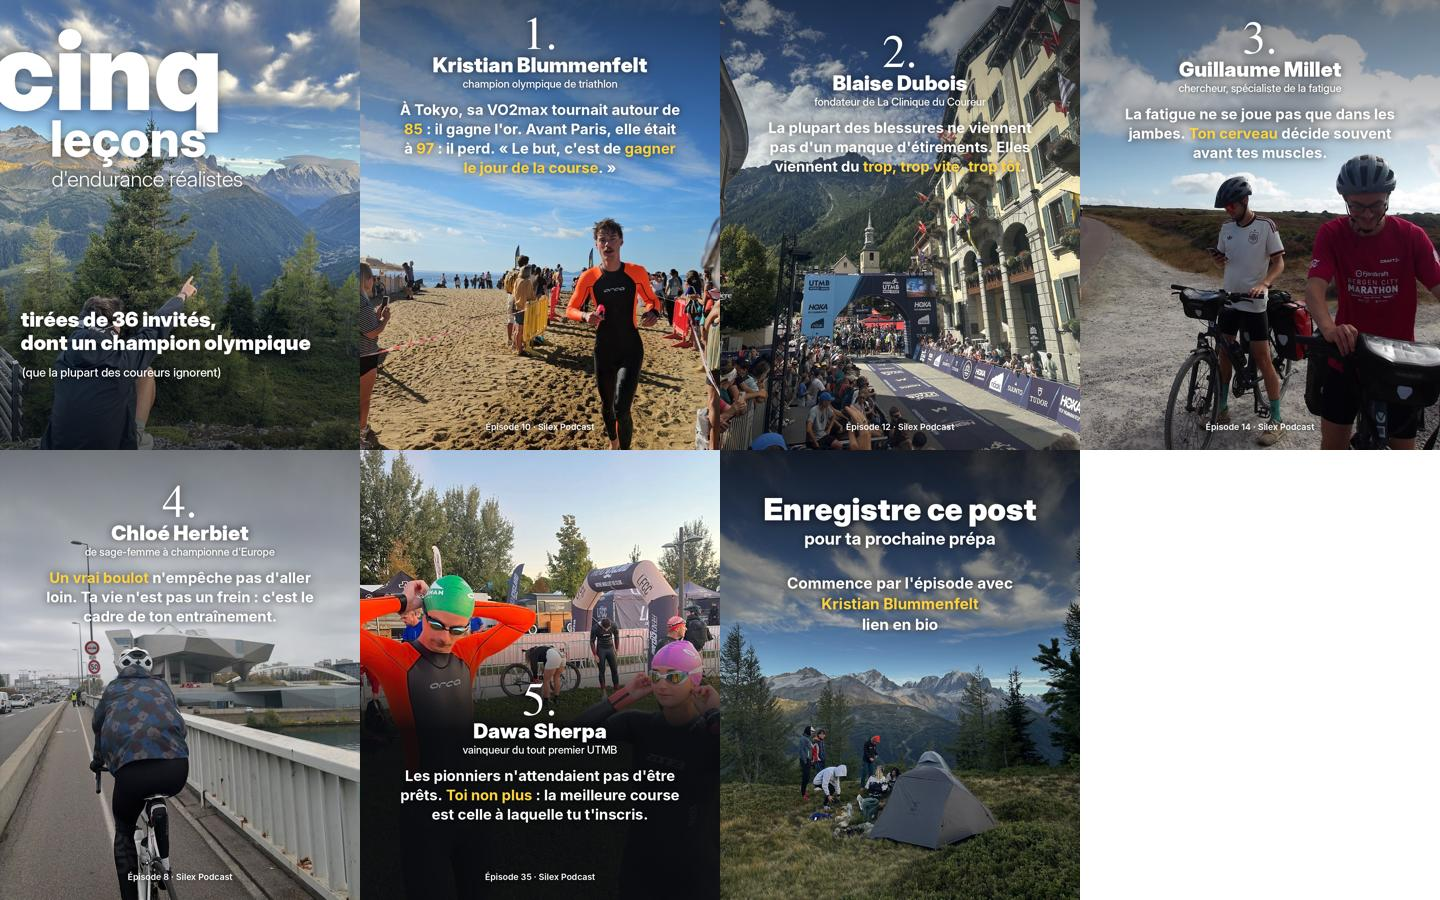
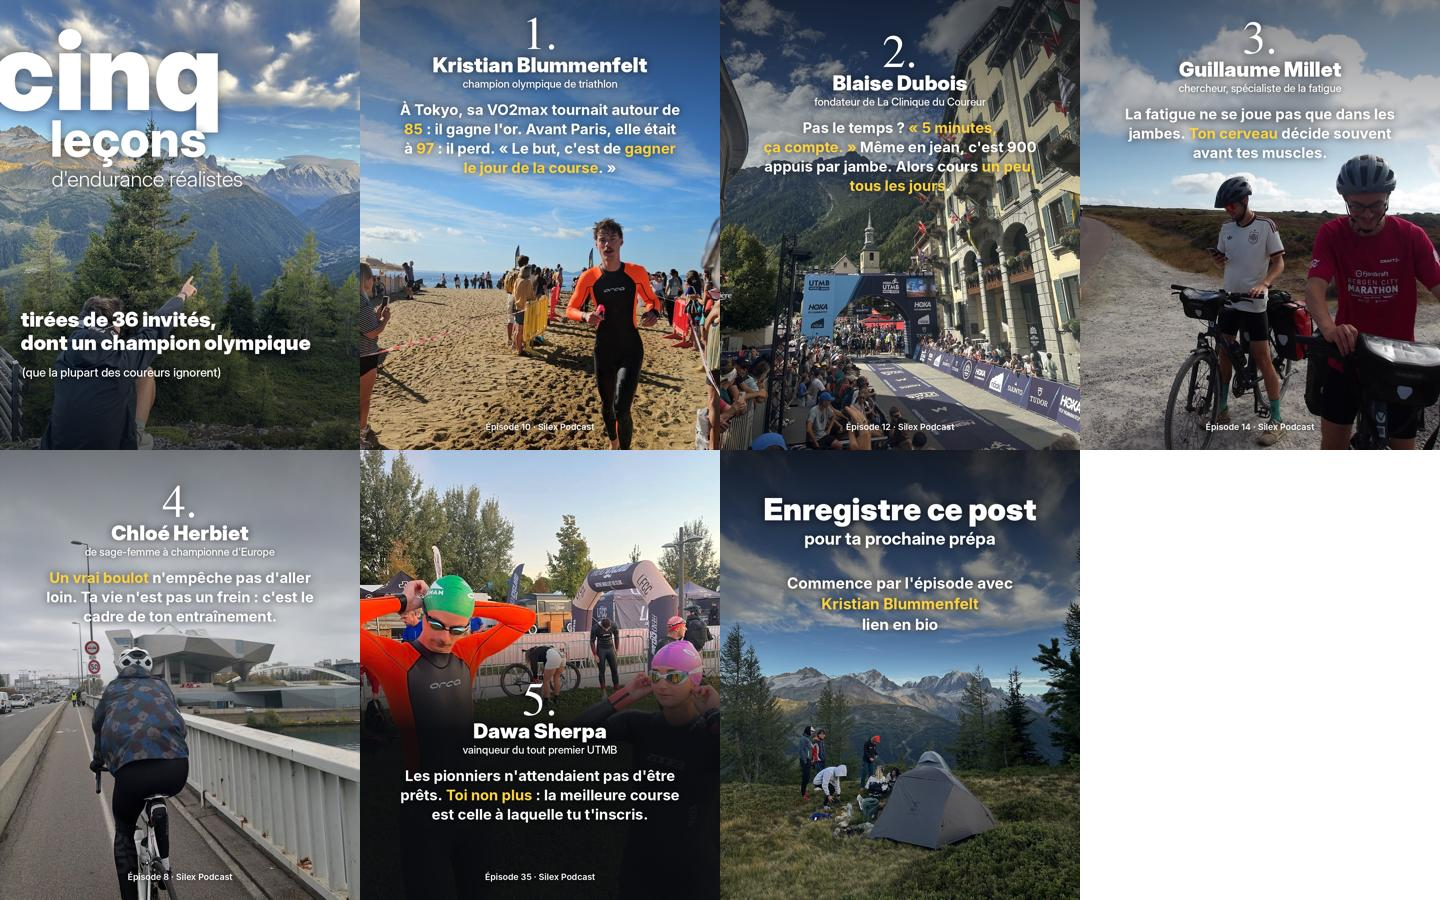
Carrousel Silex : leçon Blaise Dubois basée sur l'interview, idées de contenus
Claude-Session: https://claude.ai/code/session_01Bwd8fxM92NWrr3aL1Qd296

Changed region(s): [[0.5, 0.0, 0.75, 0.2489]]

diff --git a/carrousel-silex/make.py b/carrousel-silex/make.py
@@ -69,7 +69,7 @@ def rich(base, y, s, fnt, maxw=840, lh=58, blur=12, op=190):
     """Texte centré multi-lignes, **mots** en couleur. Renvoie le y de fin."""
     words = []
     for i, part in enumerate(re.split(r'\*\*', s)):
-        words += [(w, i % 2 == 1) for w in part.split()]
+        words += [(w, i % 2 == 1) for w in part.split(' ') if w]  # \u00a0 = espace insécable
     d = ImageDraw.Draw(Image.new('RGB', (1, 1)))
     sp = d.textlength(' ', font=fnt)
     lines, cur, cw = [], [], 0
@@ -116,7 +116,7 @@ def lesson(s):
     if s.get('bottom'):
         bottom_shade(im, s.get('shade_start', 0.45), s.get('shade_full', 0.72), 240)
     else:
-        top_shade(im)
+        top_shade(im, *s.get('shade', (0.42, 130)))
     y = int(H * s.get('y', 0.10))
     text(im, (W // 2, y + 120), f"{s['n']}.", font('FreeSerif', 140), anchor='ms', blur=14, op=130)
     text(im, (W // 2, y + 190), s['name'], font('Inter Display:black', 62), anchor='ms', blur=12, op=170)
@@ -152,9 +152,9 @@ SLIDES = [
      'name': 'Kristian Blummenfelt', 'role': 'champion olympique de triathlon',
      'text': "À Tokyo, sa VO2max tournait autour de **85** : il gagne l'or. Avant Paris, elle était à **97** : il perd. « Le but, c'est de **gagner le jour de la course**. »",
      'credit': 'Épisode 10 · Silex Podcast'},
-    {'photo': 'arche-utmb', 'fy': 0.6, 'n': 2, 'y': 0.06,
+    {'photo': 'arche-utmb', 'fy': 0.6, 'n': 2, 'y': 0.06, 'shade': (0.55, 175),
      'name': 'Blaise Dubois', 'role': 'fondateur de La Clinique du Coureur',
-     'text': "La plupart des blessures ne viennent pas d'un manque d'étirements. Elles viennent du **trop, trop vite, trop tôt**.",
+     'text': "Pas le temps ? **«\u00a05\u00a0minutes, ça\u00a0compte.\u00a0»** Même en jean, c'est 900 appuis par jambe. Alors cours **un peu, tous les jours**.",
      'credit': 'Épisode 12 · Silex Podcast'},
     {'photo': 'velo-trio', 'fx': 0.62, 'n': 3, 'y': 0.03,
      'name': 'Guillaume Millet', 'role': 'chercheur, spécialiste de la fatigue',

diff --git a/carrousel-silex/conseils-dubois.md b/carrousel-silex/conseils-dubois.md
@@ -1,0 +1,22 @@
+# Épisode 12 · Blaise Dubois : idées de contenus tirées de la transcription
+
+| # | Passage | Ce qu'il dit | Format | Accroche |
+|---|---|---|---|---|
+| 1 | 39:23–40:32 | « 5 minutes, ça compte. » Même en jean, 5 min de jog = 900 sauts sur chaque jambe. Le stress quotidien est l'une des meilleures préventions. | Reel (extrait) | « Pas le temps de courir ? Un expert des blessures dit que 5 minutes suffisent. » |
+| 2 | 29:28–31:03 | L'amorti ne prévient pas les blessures. Les anti-pronateurs et le drop ne changent rien à l'incidence des blessures, selon des études de qualité. | Reel (débat) | « Tes chaussures avec plein d'amorti ne te protègent pas des blessures. » |
+| 3 | 31:42–32:06 | Plus d'amorti → chaussure plus lourde → cadence plus lente, plus grands pas, plus de stress sur le genou. | Carrousel (schéma) | « Pourquoi ta grosse chaussure peut te blesser au genou » |
+| 4 | 32:25–33:13 | Débutant : commence avec une chaussure simple et basse. Déjà habitué à des chaussures maximalistes et pas blessé ? Ne change pas du jour au lendemain. | Reel | « Ne jette pas tes chaussures maximalistes (pas tout de suite) » |
+| 5 | 16:56–17:46 | Les pieds plats ne sont pas un facteur de risque. « On s'en fout des pieds plats. » | Reel | « On t'a dit que tes pieds plats étaient un problème ? Faux. » |
+| 6 | 33:58–35:20 | Les étirements avant l'effort ne préviennent pas les blessures, et ne préviennent pas les courbatures. | Reel ou carrousel | « Arrête de t'étirer avant de courir (selon la science) » |
+| 7 | 35:28–35:43 | « Pourquoi aucun animal ne s'étire avant de courir après les gazelles ? » | Reel court (humour) | « Tu as déjà vu un guépard s'étirer ? » |
+| 8 | 28:16–29:01 | Le sommeil est très sous-estimé, surtout à partir de 40-50 ans, pour prévenir les blessures. | Reel | « Après 40 ans, ton meilleur outil anti-blessures est ton lit » |
+| 9 | 35:52–37:23 | Douleur ponctuelle sur un tissu = trop de stress. Jambes lourdes et essoufflement = manque d'adaptation, pas une blessure. | Carrousel | « Gêne ou blessure ? Comment faire la différence » |
+| 10 | 41:01–41:26 | Tendon d'Achille sensible le lendemain d'une séance de dénivelé : fais un petit footing lent. « 80 % de la prévention, c'est quantifier le stress mécanique. » | Reel | « Ton tendon tire le lendemain ? Fais ça. » |
+| 11 | 38:18–39:11 | Les coureurs sont trop dépendants de leur montre et se déconnectent de leurs sensations. Lui court sans montre. | Reel | « Un expert mondial des blessures court sans montre. Voilà pourquoi. » |
+| 12 | 41:36–42:11 | Le carnet d'entraînement : une hausse de 20 % d'une semaine à l'autre peut expliquer une blessure. | Carrousel | « La règle simple pour ne pas te blesser en préparation » |
+
+## Conseils
+
+- Blaise critique lui-même les extraits de 90 secondes « punchy » sans nuance (11:21–12:08). Garde la nuance dans tes reels : par exemple pour les chaussures, ajoute toujours « ne change pas du jour au lendemain ».
+- Les sujets chaussures, étirements et pieds plats génèrent beaucoup de commentaires parce qu'ils contredisent ce qu'on entend partout.
+- Identifie @lacliniqueducoureur (à vérifier) sur les extraits : ils ont une grosse audience et partagent ce genre de contenu.

diff --git a/carrousel-silex/legende.md b/carrousel-silex/legende.md
@@ -9,7 +9,7 @@ Une VO2max de 97… et il a perdu 👇
 Et ce qui revient le plus souvent, ce n'est pas un plan d'entraînement secret :
 
 1. La VO2max ne gagne pas les courses (@[Kristian Blummenfelt])
-2. Trop, trop vite, trop tôt : voilà d'où viennent les blessures (@[Blaise Dubois])
+2. 5 minutes de course, ça compte (@[Blaise Dubois])
 3. La fatigue se joue aussi dans la tête (@[Guillaume Millet])
 4. Un vrai boulot n'empêche pas d'aller loin (@[Chloé Herbiet])
 5. N'attends pas d'être prêt (@[Dawa Sherpa])
@@ -33,7 +33,7 @@ Et ce qui revient le plus souvent, ce n'est pas un plan d'entraînement secret :
 Ces textes ont été écrits sans accès aux transcriptions. Vérifie que chacun correspond à ce que l'invité dit, ou remplace-le par une vraie citation :
 
 - ✅ Slide 2 · Kristian Blummenfelt : validé avec la transcription (14:28–15:32, VO2max ~85 à Tokyo, 97 avant Paris).
-- [À VALIDER] Slide 3 · Blaise Dubois : « trop, trop vite, trop tôt ».
+- ✅ Slide 3 · Blaise Dubois : validé avec la transcription (39:23–40:32, « 5 minutes, ça compte », 900 sauts par jambe, stress quotidien).
 - [À VALIDER] Slide 4 · Guillaume Millet : « Ton cerveau décide souvent avant tes muscles. »
 - [À VALIDER] Slide 5 · Chloé Herbiet : « Un vrai boulot n'empêche pas d'aller loin. »
 - [À VALIDER] Slide 6 · Dawa Sherpa : « Les pionniers n'attendaient pas d'être prêts. »
